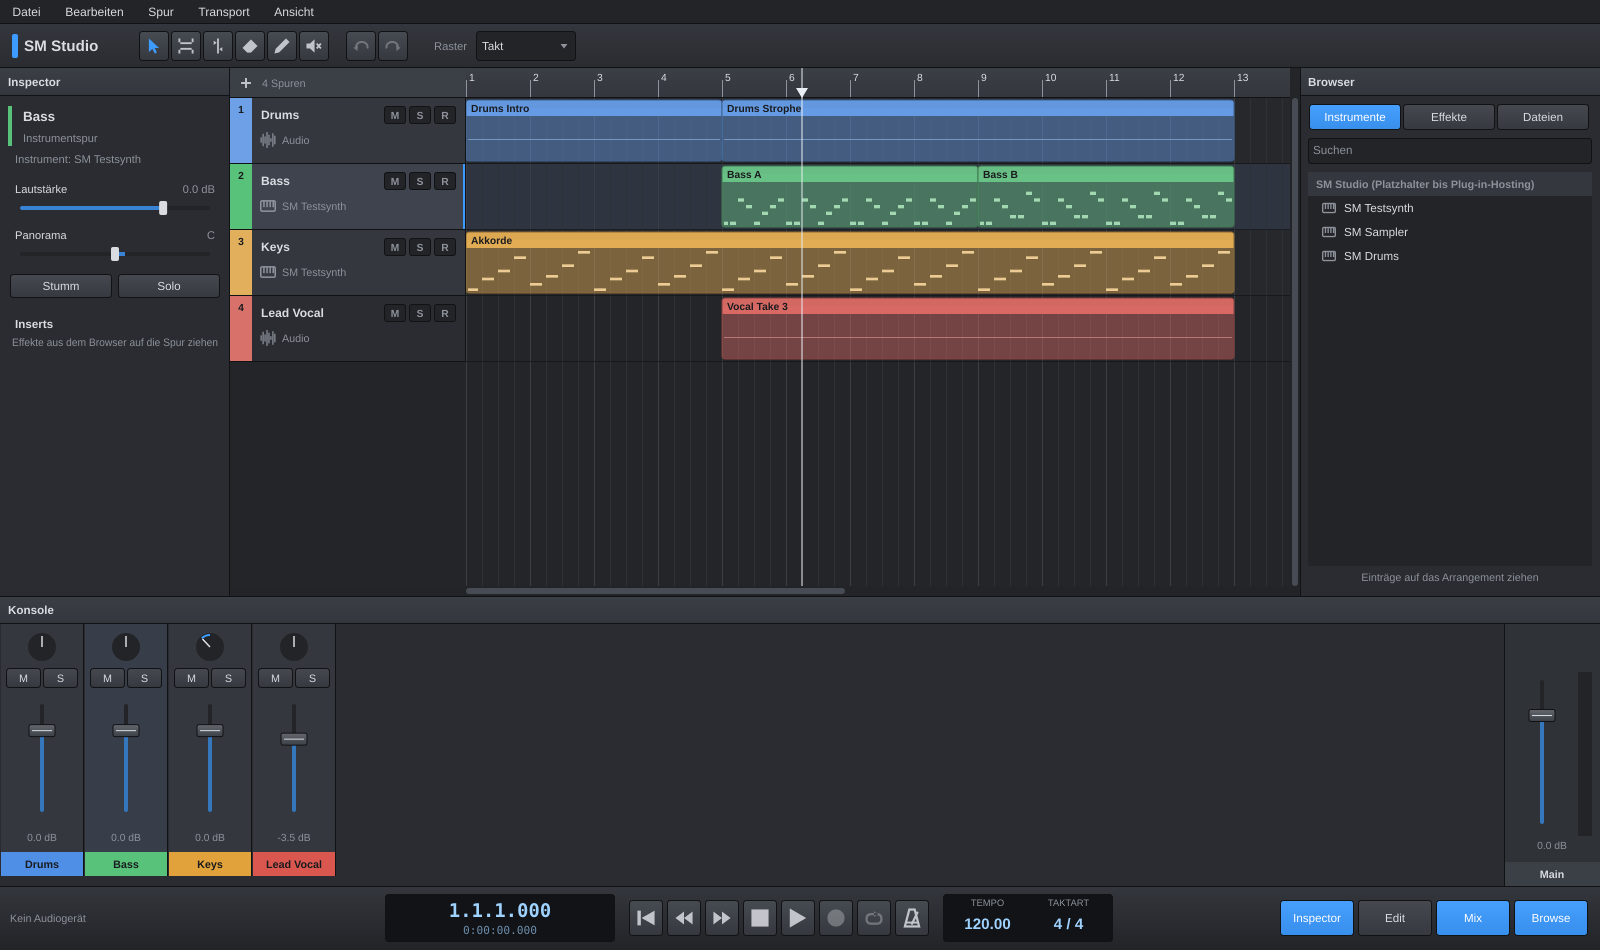
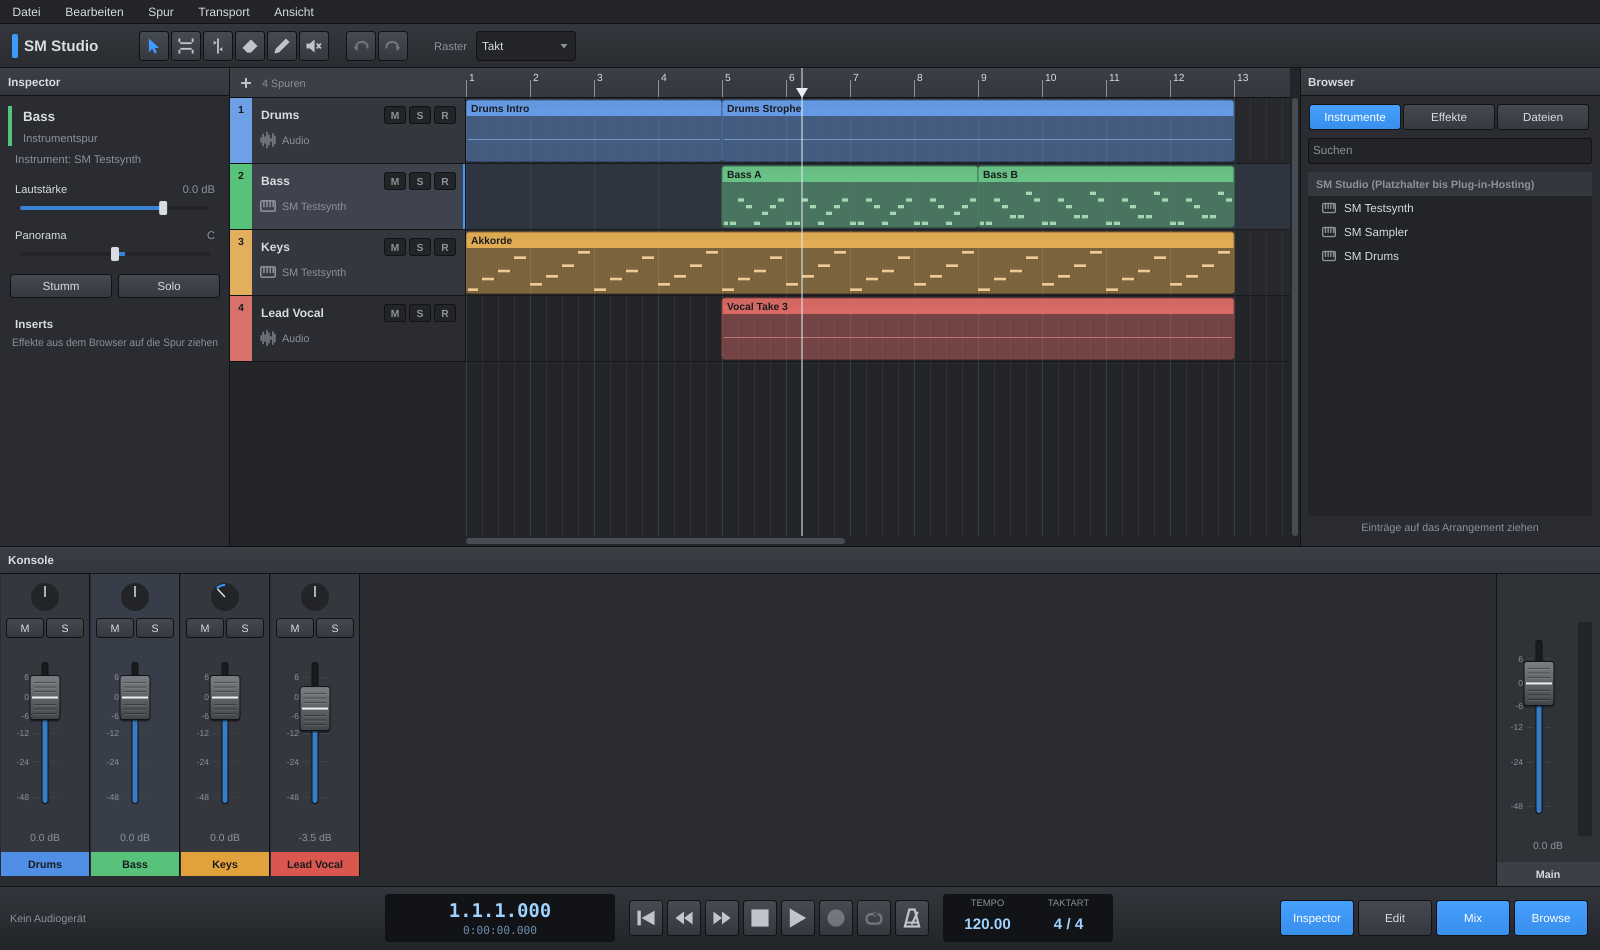
Konsole: größere Fader mit Griffkappe und dB-Skala
- Fader-Kappe 30x44 px mit Rillen und Mittellinie, Hover-Hervorhebung
- Ziehen statt Springen an die Klickposition, feinere Auflösung
- dB-Skala neben dem Fader, Konsole etwas höher und breiter

Claude-Session: https://claude.ai/code/session_01G1Snz2j6udqzPPveGnZnQZ

Changed region(s): [[0.0, 0.5495, 1.0, 0.8547], [0.0312, 0.8853, 0.25, 0.9158], [0.9375, 0.6716, 0.9688, 0.8547]]

diff --git a/src/app/ui/Theme.cpp b/src/app/ui/Theme.cpp
@@ -319,19 +319,71 @@ void LookAndFeel::drawLinearSlider (juce::Graphics& g, int x, int y, int w, int 
 
     if (vertical)
     {
-        auto track = bounds.withSizeKeepingCentre (4.0f, bounds.getHeight());
-        g.setColour (colours::panelDark);
-        g.fillRoundedRectangle (track, 2.0f);
-        g.setColour (fill.withAlpha (0.7f));
-        g.fillRoundedRectangle (track.withTop (pos), 2.0f);
+        const auto cx = bounds.getCentreX();
+        const auto top = (float) s.getPositionOfValue (s.getMaximum());
+        const auto bottom = (float) s.getPositionOfValue (s.getMinimum());
 
-        auto thumb = juce::Rectangle<float> (juce::jmin (bounds.getWidth(), 26.0f), 12.0f).withCentre ({ bounds.getCentreX(), pos });
-        g.setGradientFill (juce::ColourGradient (colours::headerLight.brighter (0.2f), 0, thumb.getY(), colours::header, 0, thumb.getBottom(), false));
-        g.fillRoundedRectangle (thumb, 2.0f);
+        // dB scale ticks left and right of the fader slot
+        if (s.getProperties().contains ("dbScale"))
+        {
+            g.setFont (font (9.5f));
+            for (double db : { 6.0, 0.0, -6.0, -12.0, -24.0, -48.0 })
+            {
+                if (db < s.getMinimum() || db > s.getMaximum())
+                    continue;
+                const auto ty = (float) s.getPositionOfValue (db);
+                g.setColour (juce::exactlyEqual (db, 0.0) ? colours::textDim : colours::separator);
+                g.drawHorizontalLine ((int) ty, cx - 12.0f, cx - 6.0f);
+                g.drawHorizontalLine ((int) ty, cx + 6.0f, cx + 12.0f);
+                if (bounds.getWidth() >= 64.0f)
+                {
+                    g.setColour (colours::textDim);
+                    g.drawText (juce::String ((int) db), juce::Rectangle<float> (cx - 40.0f, ty - 6.0f, 24.0f, 12.0f),
+                                juce::Justification::centredRight);
+                }
+            }
+        }
+
+        // slot
+        auto slot = juce::Rectangle<float>::leftTopRightBottom (cx - 2.5f, top, cx + 2.5f, bottom);
         g.setColour (colours::border);
-        g.drawRoundedRectangle (thumb, 2.0f, 1.0f);
-        g.setColour (colours::text);
-        g.fillRect (thumb.withSizeKeepingCentre (thumb.getWidth() - 6.0f, 1.0f));
+        g.fillRoundedRectangle (slot.expanded (1.0f), 3.0f);
+        g.setColour (colours::panelDark.darker (0.3f));
+        g.fillRoundedRectangle (slot, 2.5f);
+        g.setColour (fill.withAlpha (0.75f));
+        g.fillRoundedRectangle (slot.withTop (pos), 2.5f);
+
+        // cap: wide and tall like a hardware fader knob
+        const auto capW = juce::jmin (bounds.getWidth() - 2.0f, faderCapWidth);
+        auto cap = juce::Rectangle<float> (capW, faderCapHeight).withCentre ({ cx, pos });
+        const bool active = s.isMouseOverOrDragging();
+
+        g.setColour (juce::Colours::black.withAlpha (0.45f));
+        g.fillRoundedRectangle (cap.translated (0.0f, 2.0f), 3.0f);
+
+        auto body = colours::headerLight.brighter (active ? 0.25f : 0.12f);
+        g.setGradientFill (juce::ColourGradient (body.brighter (0.25f), 0, cap.getY(),
+                                                 body.darker (0.35f), 0, cap.getBottom(), false));
+        g.fillRoundedRectangle (cap, 3.0f);
+
+        // grip ridges above and below the centre line
+        for (int i = 1; i <= 3; ++i)
+        {
+            const auto off = (float) i * 4.5f + 2.0f;
+            g.setColour (juce::Colours::black.withAlpha (0.35f));
+            g.fillRect (cap.getX() + 4.0f, pos - off, capW - 8.0f, 1.0f);
+            g.fillRect (cap.getX() + 4.0f, pos + off, capW - 8.0f, 1.0f);
+            g.setColour (juce::Colours::white.withAlpha (0.12f));
+            g.fillRect (cap.getX() + 4.0f, pos - off + 1.0f, capW - 8.0f, 1.0f);
+            g.fillRect (cap.getX() + 4.0f, pos + off + 1.0f, capW - 8.0f, 1.0f);
+        }
+
+        // centre line marks the exact value
+        g.setColour (active ? colours::accent.brighter (0.3f) : juce::Colours::white.withAlpha (0.9f));
+        g.fillRect (cap.getX() + 2.0f, pos - 1.0f, capW - 4.0f, 2.0f);
+
+        g.setColour (colours::border);
+        g.drawRoundedRectangle (cap, 3.0f, 1.0f);
     }
     else
     {
@@ -355,6 +407,15 @@ void LookAndFeel::drawLinearSlider (juce::Graphics& g, int x, int y, int w, int 
         g.setColour (colours::text);
         g.fillRoundedRectangle (thumb, 2.0f);
     }
+}
+
+int LookAndFeel::getSliderThumbRadius (juce::Slider& s)
+{
+    // keep the whole fader cap inside the slider at both ends
+    if (s.getSliderStyle() == juce::Slider::LinearVertical)
+        return (int) std::ceil (faderCapHeight * 0.5f) + 1;
+
+    return LookAndFeel_V4::getSliderThumbRadius (s);
 }
 
 void LookAndFeel::drawRotarySlider (juce::Graphics& g, int x, int y, int w, int h, float pos,

diff --git a/src/app/ui/Panels.cpp b/src/app/ui/Panels.cpp
@@ -45,6 +45,18 @@ namespace
         s.setWantsKeyboardFocus (false);
     }
 
+    /** Mixer faders: grab anywhere and drag (no jumping to the click
+        position), fine adjustment with Shift, dB scale painted beside. */
+    void setupFaderFeel (juce::Slider& s)
+    {
+        s.setSliderSnapsToMousePosition (false);
+        s.setVelocityBasedMode (false);
+        s.setMouseDragSensitivity (300);
+        s.getProperties().set ("dbScale", true);
+        s.setMouseCursor (juce::MouseCursor::UpDownResizeCursor);
+        s.setTooltip (u8"Ziehen: Lautstärke  ·  Doppelklick: 0 dB");
+    }
+
     /** dB from slider value: the bottom end of the fader means silence. */
     float sliderToDb (double v) { return v <= -59.95 ? Track::minVolumeDb : (float) v; }
 
@@ -480,6 +492,7 @@ public:
         setupVolumeSlider (fader);
         fader.setSliderStyle (juce::Slider::LinearVertical);
         fader.setTextBoxStyle (juce::Slider::NoTextBox, false, 0, 0);
+        setupFaderFeel (fader);
         bindTrackSlider (fader, ctx, [this] { return trackId; }, Param::volumeDb, true);
         addAndMakeVisible (fader);
 
@@ -555,7 +568,7 @@ public:
         buttons.removeFromLeft (2);
         solo.setBounds (buttons);
         value.setBounds (r.removeFromBottom (18));
-        fader.setBounds (r.reduced (0, 4));
+        fader.setBounds (r.reduced (0, 2));
     }
 
     void mouseDown (const juce::MouseEvent&) override { ctx.selection.selectTrack (trackId); }
@@ -578,6 +591,7 @@ public:
         setupVolumeSlider (fader);
         fader.setSliderStyle (juce::Slider::LinearVertical);
         fader.setTextBoxStyle (juce::Slider::NoTextBox, false, 0, 0);
+        setupFaderFeel (fader);
         fader.setValue (0.0, juce::dontSendNotification);
         fader.onValueChange = [this]
         {
@@ -637,7 +651,7 @@ public:
         r.removeFromBottom (24);
         value.setBounds (r.removeFromBottom (18));
         meterArea = r.removeFromRight (14).withTrimmedTop (40);
-        r.removeFromRight (6);
+        r.removeFromRight (4);
         fader.setBounds (r.withTrimmedTop (36));
     }
 
@@ -719,10 +733,10 @@ void ConsolePanel::paint (juce::Graphics& g)
 void ConsolePanel::resized()
 {
     auto r = getLocalBounds().withTrimmedTop (panelHeaderHeight);
-    master->setBounds (r.removeFromRight (96));
+    master->setBounds (r.removeFromRight (104));
     viewport.setBounds (r);
 
-    constexpr int stripWidth = 84;
+    constexpr int stripWidth = 90;
     const auto h = r.getHeight() - (viewport.isHorizontalScrollBarShown() ? viewport.getScrollBarThickness() : 0);
     stripHolder.setSize (juce::jmax (r.getWidth(), strips.size() * stripWidth), juce::jmax (0, h));
     for (int i = 0; i < strips.size(); ++i)

diff --git a/src/app/ui/Theme.h b/src/app/ui/Theme.h
@@ -79,6 +79,12 @@ public:
 
     void drawLinearSlider (juce::Graphics&, int x, int y, int w, int h, float pos, float min, float max,
                            juce::Slider::SliderStyle, juce::Slider&) override;
+    int getSliderThumbRadius (juce::Slider&) override;
+
+    /** Size of the cap of vertical (mixer) faders. */
+    static constexpr float faderCapWidth = 30.0f;
+    static constexpr float faderCapHeight = 44.0f;
+
     void drawRotarySlider (juce::Graphics&, int x, int y, int w, int h, float pos,
                            float startAngle, float endAngle, juce::Slider&) override;
 

diff --git a/src/app/modules/PanelsModule.cpp b/src/app/modules/PanelsModule.cpp
@@ -27,7 +27,7 @@ namespace
             reg.addPanel ({ "browser", "Browser", PanelLocation::right, 300, true,
                             [] (AppContext& c) { return std::make_unique<BrowserPanel> (c); } });
 
-            reg.addPanel ({ "console", "Konsole", PanelLocation::bottom, 290, false,
+            reg.addPanel ({ "console", "Konsole", PanelLocation::bottom, 340, false,
                             [] (AppContext& c) { return std::make_unique<ConsolePanel> (c); } });
         }
     };
